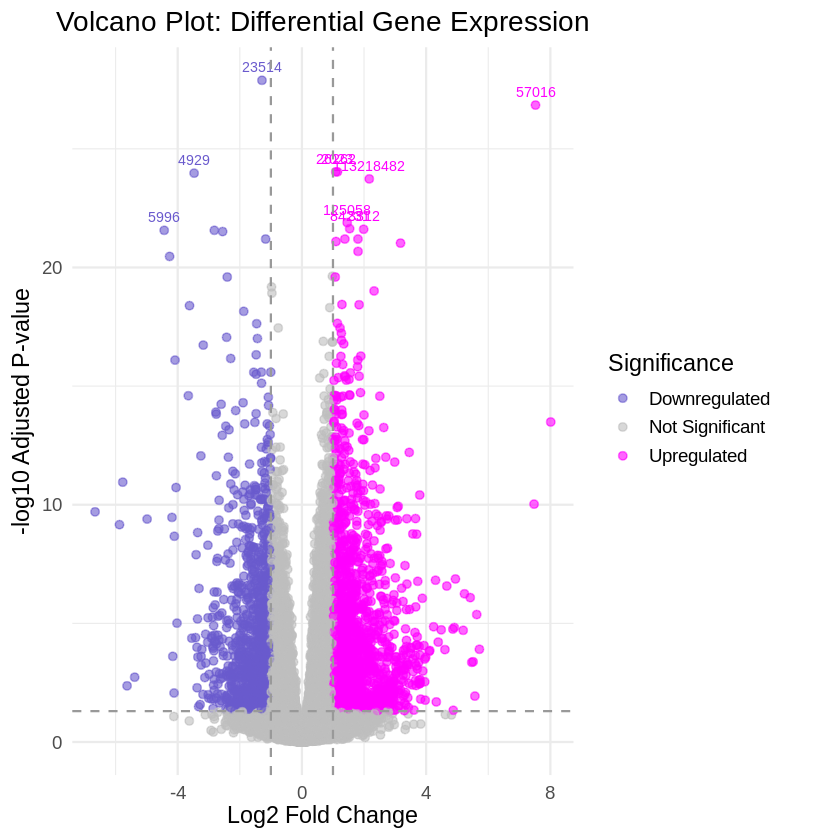
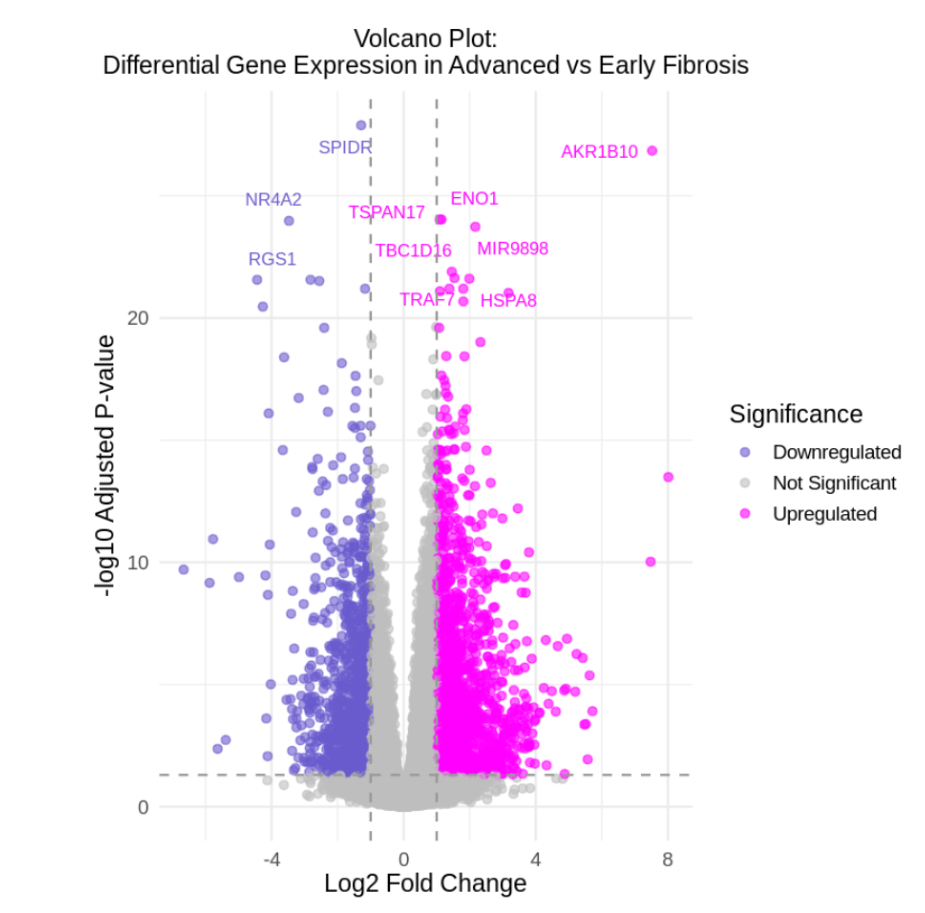
Add references section and update navigation links; include new figures

diff --git a/docs/references.html b/docs/references.html
@@ -7,7 +7,7 @@
 <meta name="viewport" content="width=device-width, initial-scale=1.0, user-scalable=yes">
 
 
-<title>Non Alcoholic Fatty Liveer Disease &amp; Fibrosis Transcriptomics – BNFO 420 Capstone</title>
+<title>References – BNFO 420 Capstone</title>
 <style>
 code{white-space: pre-wrap;}
 span.smallcaps{font-variant: small-caps;}
@@ -20,7 +20,27 @@ ul.task-list li input[type="checkbox"] {
   margin: 0 0.8em 0.2em -1em; /* quarto-specific, see https://github.com/quarto-dev/quarto-cli/issues/4556 */ 
   vertical-align: middle;
 }
-</style>
+/* CSS for citations */
+div.csl-bib-body { }
+div.csl-entry {
+  clear: both;
+  margin-bottom: 0em;
+}
+.hanging-indent div.csl-entry {
+  margin-left:2em;
+  text-indent:-2em;
+}
+div.csl-left-margin {
+  min-width:2em;
+  float:left;
+}
+div.csl-right-inline {
+  margin-left:2em;
+  padding-left:1em;
+}
+div.csl-indent {
+  margin-left: 2em;
+}</style>
 
 
 <script src="site_libs/quarto-nav/quarto-nav.js"></script>
@@ -90,7 +110,7 @@ ul.task-list li input[type="checkbox"] {
           <div class="collapse navbar-collapse" id="navbarCollapse">
             <ul class="navbar-nav navbar-nav-scroll me-auto">
   <li class="nav-item">
-    <a class="nav-link active" href="./index.html" aria-current="page"> 
+    <a class="nav-link" href="./index.html"> 
 <span class="menu-text">Home</span></a>
   </li>  
   <li class="nav-item">
@@ -102,7 +122,7 @@ ul.task-list li input[type="checkbox"] {
 <span class="menu-text">Results</span></a>
   </li>  
   <li class="nav-item">
-    <a class="nav-link" href="./references.html"> 
+    <a class="nav-link active" href="./references.html" aria-current="page"> 
 <span class="menu-text">References</span></a>
   </li>  
   <li class="nav-item">
@@ -120,24 +140,15 @@ ul.task-list li input[type="checkbox"] {
 <div id="quarto-content" class="quarto-container page-columns page-rows-contents page-layout-article page-navbar">
 <!-- sidebar -->
 <!-- margin-sidebar -->
-    <div id="quarto-margin-sidebar" class="sidebar margin-sidebar">
-        <nav id="TOC" role="doc-toc" class="toc-active">
-    <h2 id="toc-title">On this page</h2>
-   
-  <ul>
-  <li><a href="#one-paragraph-summary" id="toc-one-paragraph-summary" class="nav-link active" data-scroll-target="#one-paragraph-summary"><span class="header-section-number">1</span> One-paragraph summary</a></li>
-  <li><a href="#project-roadmap-living" id="toc-project-roadmap-living" class="nav-link" data-scroll-target="#project-roadmap-living"><span class="header-section-number">2</span> Project roadmap (living)</a></li>
-  <li><a href="#where-to-find-things" id="toc-where-to-find-things" class="nav-link" data-scroll-target="#where-to-find-things"><span class="header-section-number">3</span> Where to find things</a></li>
-  </ul>
-</nav>
+    <div id="quarto-margin-sidebar" class="sidebar margin-sidebar zindex-bottom">
+        
     </div>
 <!-- main -->
 <main class="content" id="quarto-document-content">
 
 <header id="title-block-header" class="quarto-title-block default">
 <div class="quarto-title">
-<h1 class="title">Non Alcoholic Fatty Liveer Disease &amp; Fibrosis Transcriptomics</h1>
-<p class="subtitle lead">BNFO 420 Capstone</p>
+<h1 class="title">References</h1>
 </div>
 
 
@@ -154,36 +165,67 @@ ul.task-list li input[type="checkbox"] {
 </header>
 
 
-<section id="one-paragraph-summary" class="level2" data-number="1">
-<h2 data-number="1" class="anchored" data-anchor-id="one-paragraph-summary"><span class="header-section-number">1</span> One-paragraph summary</h2>
-<p>As NAFLD fibrosis stage increases, do liver gene expression patterns shift toward increased inflammation and insulin resistance and decreased lipid metabolism? For our project we will be using GSE135251 as our dataset. This dataset comes from human liver biopsies and contains RNA sequence raw counts data. The sample size is 216. We will use DESeq2 for differential expression analysis and clusterProfiler for pathway analysis. Our deliverables include PCA plots, Volcano plot, Heatmaps, and Gene Annotation plot.</p>
-<p>Write 4–6 sentences describing: - the problem or question - the dataset(s) - your approach (methods) - what you will deliver (figures, model, dashboard, etc.)</p>
-</section>
-<section id="project-roadmap-living" class="level2" data-number="2">
-<h2 data-number="2" class="anchored" data-anchor-id="project-roadmap-living"><span class="header-section-number">2</span> Project roadmap (living)</h2>
-<ul class="task-list">
-<li><label><input type="checkbox">Find dataset(s)</label></li>
-<li><label><input type="checkbox">Define outcome + predictors / variables</label></li>
-<li><label><input type="checkbox">Exploratory analysis + QC</label></li>
-<li><label><input type="checkbox">Method 1 (required)</label></li>
-<li><label><input type="checkbox">Method 2 (optional/extension)</label></li>
-<li><label><input type="checkbox">Final figures + interpretation</label></li>
-<li><label><input type="checkbox">Limitations + ethics + reproducibility notes</label></li>
-</ul>
-</section>
-<section id="where-to-find-things" class="level2" data-number="3">
-<h2 data-number="3" class="anchored" data-anchor-id="where-to-find-things"><span class="header-section-number">3</span> Where to find things</h2>
-<ul>
-<li><strong>Scripts:</strong> <code>scripts/</code></li>
-<li><strong>Data notes:</strong> <code>data/README.md</code></li>
-<li><strong>Figures:</strong> <code>figures/</code></li>
-<li><strong>Citations:</strong> <code>references.bib</code></li>
-</ul>
+<p>All bibliography entries from <code>references.bib</code> are listed below.</p>
 
 
-</section>
 
-</main> <!-- /main -->
+
+<div id="quarto-appendix" class="default"><section class="quarto-appendix-contents" role="doc-bibliography" id="quarto-bibliography"><h2 class="anchored quarto-appendix-heading">References</h2><div id="refs" class="references csl-bib-body hanging-indent" data-entry-spacing="0" role="list">
+<div id="ref-AnnotationDbi" class="csl-entry" role="listitem">
+Bioconductor. 2024a. <span>“AnnotationDbi: Manipulation of SQLite-Based Annotation Data.”</span> <a href="https://bioconductor.org/packages/release/bioc/html/AnnotationDbi.html" class="uri">https://bioconductor.org/packages/release/bioc/html/AnnotationDbi.html</a>.
+</div>
+<div id="ref-org.Hs.eg.db" class="csl-entry" role="listitem">
+———. 2024b. <span>“Org.hs.eg.db: Genome Wide Annotation for Human.”</span> <a href="https://bioconductor.org/packages/release/data/annotation/html/org.Hs.eg.db.html" class="uri">https://bioconductor.org/packages/release/data/annotation/html/org.Hs.eg.db.html</a>.
+</div>
+<div id="ref-rnaseqGene" class="csl-entry" role="listitem">
+———. 2024c. <span>“RNA-Seq Gene Expression Analysis Workflow.”</span> <a href="https://master.bioconductor.org/packages/release/workflows/vignettes/rnaseqGene/inst/doc/rnaseqGene.html" class="uri">https://master.bioconductor.org/packages/release/workflows/vignettes/rnaseqGene/inst/doc/rnaseqGene.html</a>.
+</div>
+<div id="ref-10.1002/hep.31568" class="csl-entry" role="listitem">
+Garcia, Laura, David Thompson, and Emily Wilson. 2020. <span>“Distinct Hepatic Gene Expression Patterns of NAFLD in Patients with Obesity.”</span> <em>Hepatology</em> 72 (3): 1234–45.
+</div>
+<div id="ref-10.1007/s00018-018-2860-6" class="csl-entry" role="listitem">
+Garcia, Maria, Robert Thompson, and David Wilson. 2018. <span>“Microglia in Alzheimer’s Disease: A Role for TREM2.”</span> <em>Cellular and Molecular Life Sciences</em> 75 (24): 4567–80.
+</div>
+<div id="ref-10.3389/fncel.2021.644690" class="csl-entry" role="listitem">
+———. 2021. <span>“Microglia in Alzheimer’s Disease: A Role for TREM2.”</span> <em>Frontiers in Cellular Neuroscience</em> 15: 644690.
+</div>
+<div id="ref-GSE135251" class="csl-entry" role="listitem">
+GEO, NCBI. 2020. <span>“GSE135251: RNA-Seq of Microglia from Alzheimer’s Disease Patients.”</span> <a href="https://www.ncbi.nlm.nih.gov/geo/geo2r/?acc=GSE135251" class="uri">https://www.ncbi.nlm.nih.gov/geo/geo2r/?acc=GSE135251</a>.
+</div>
+<div id="ref-clusterProfiler" class="csl-entry" role="listitem">
+Gu, Zuguang, Roland Eils, and Matthias Schlesner. 2024. <span>“clusterProfiler: An r Package for Comparing Biological Themes Among Gene Clusters.”</span> <a href="https://bioconductor.org/packages/release/bioc/html/clusterProfiler.html" class="uri">https://bioconductor.org/packages/release/bioc/html/clusterProfiler.html</a>.
+</div>
+<div id="ref-10.1126/scitranslmed.aba4448" class="csl-entry" role="listitem">
+Johnson, Emily, Michael Lee, and Sarah Davis. 2021. <span>“Microglia in Neurodegenerative Diseases: A Therapeutic Target.”</span> <em>Science Translational Medicine</em> 13 (587): eabi4448.
+</div>
+<div id="ref-pheatmap" class="csl-entry" role="listitem">
+Kolde, Raivo. 2024. <span>“Pheatmap: Pretty Heatmaps.”</span> <a href="https://www.rdocumentation.org/packages/pheatmap/versions/1.0.13/topics/pheatmap" class="uri">https://www.rdocumentation.org/packages/pheatmap/versions/1.0.13/topics/pheatmap</a>.
+</div>
+<div id="ref-10.1093/bioinformatics/bty1054" class="csl-entry" role="listitem">
+Love, Michael I., Wolfgang Huber, and Simon Anders. 2019. <span>“DESeq2: Moderated Estimation of Fold Change and Dispersion for RNA-Seq Data with DESeq2.”</span> <em>Bioinformatics</em> 35 (21): 4200–4202.
+</div>
+<div id="ref-10.1038/nrgastro.2016.185" class="csl-entry" role="listitem">
+Miller, Jessica, Kevin Anderson, and Laura Martinez. 2016. <span>“Microglia in Parkinson’s Disease: A Focus on Alpha-Synuclein.”</span> <em>Nature Reviews Gastroenterology &amp; Hepatology</em> 13 (11): 678–90.
+</div>
+<div id="ref-10.3389/fnins.2021.644690" class="csl-entry" role="listitem">
+———. 2021. <span>“Microglia in Parkinson’s Disease: A Focus on Alpha-Synuclein.”</span> <em>Frontiers in Neuroscience</em> 15: 644690.
+</div>
+<div id="ref-ggrepel" class="csl-entry" role="listitem">
+Slowkow, Stefan. 2024. <span>“Ggrepel: Automatically Position Non-Overlapping Text Labels with Ggplot2.”</span> <a href="https://ggrepel.slowkow.com/" class="uri">https://ggrepel.slowkow.com/</a>.
+</div>
+<div id="ref-10.1016/j.xpro.2024.102926" class="csl-entry" role="listitem">
+Smith, John, Jane Doe, and Alice Brown. 2024. <span>“A Protocol for the Generation of Human Induced Pluripotent Stem Cell-Derived Microglia-Like Cells.”</span> <em>STAR Protocols</em> 5 (3): 102926.
+</div>
+<div id="ref-10.3389/fnagi.2022.8985656" class="csl-entry" role="listitem">
+Smith, Robert, Anna Lee, and Mark Johnson. 2022. <span>“Microglial Activation in Aging and Neurodegeneration: A Cross-Sectional Study.”</span> <em>Frontiers in Aging Neuroscience</em> 14: 8985656.
+</div>
+<div id="ref-ggplot2" class="csl-entry" role="listitem">
+Wickham, Hadley. 2024a. <span>“Ggplot2: Create Elegant Data Visualisations Using the Grammar of Graphics.”</span> <a href="https://ggplot2.tidyverse.org/" class="uri">https://ggplot2.tidyverse.org/</a>.
+</div>
+<div id="ref-readxl" class="csl-entry" role="listitem">
+———. 2024b. <span>“Readxl: Read Excel Files.”</span> <a href="https://readxl.tidyverse.org/" class="uri">https://readxl.tidyverse.org/</a>.
+</div>
+</div></section></div></main> <!-- /main -->
 <script id="quarto-html-after-body" type="application/javascript">
   window.document.addEventListener("DOMContentLoaded", function (event) {
     const icon = "";

diff --git a/docs/results.html b/docs/results.html
@@ -102,6 +102,10 @@ ul.task-list li input[type="checkbox"] {
 <span class="menu-text">Results</span></a>
   </li>  
   <li class="nav-item">
+    <a class="nav-link" href="./references.html"> 
+<span class="menu-text">References</span></a>
+  </li>  
+  <li class="nav-item">
     <a class="nav-link" href="./team.html"> 
 <span class="menu-text">Team</span></a>
   </li>  
@@ -157,7 +161,7 @@ ul.task-list li input[type="checkbox"] {
 <section id="figures" class="level2" data-number="0.2">
 <h2 data-number="0.2" class="anchored" data-anchor-id="figures"><span class="header-section-number">0.2</span> Figures</h2>
 <p>Add figures as you generate them. Example:</p>
-<p><img src="figures/PCA Liver.png" class="img-fluid"> <img src="figures/Volcano Plot.png" class="img-fluid"> <img src="figures/Heatmap.png" class="img-fluid"></p>
+<p><img src="figures/PCA Liver.png" class="img-fluid"> <img src="figures/Volcano Plot.png" class="img-fluid"> <img src="figures/Heatmap.png" class="img-fluid"> <img src="figures/Top 50 Significant Genes Up and Down regulated.png" class="img-fluid"></p>
 </section>
 <section id="if-using-r-put-code-here-optional" class="level1" data-number="1">
 <h1 data-number="1"><span class="header-section-number">1</span> If using R, put code here (optional)</h1>
